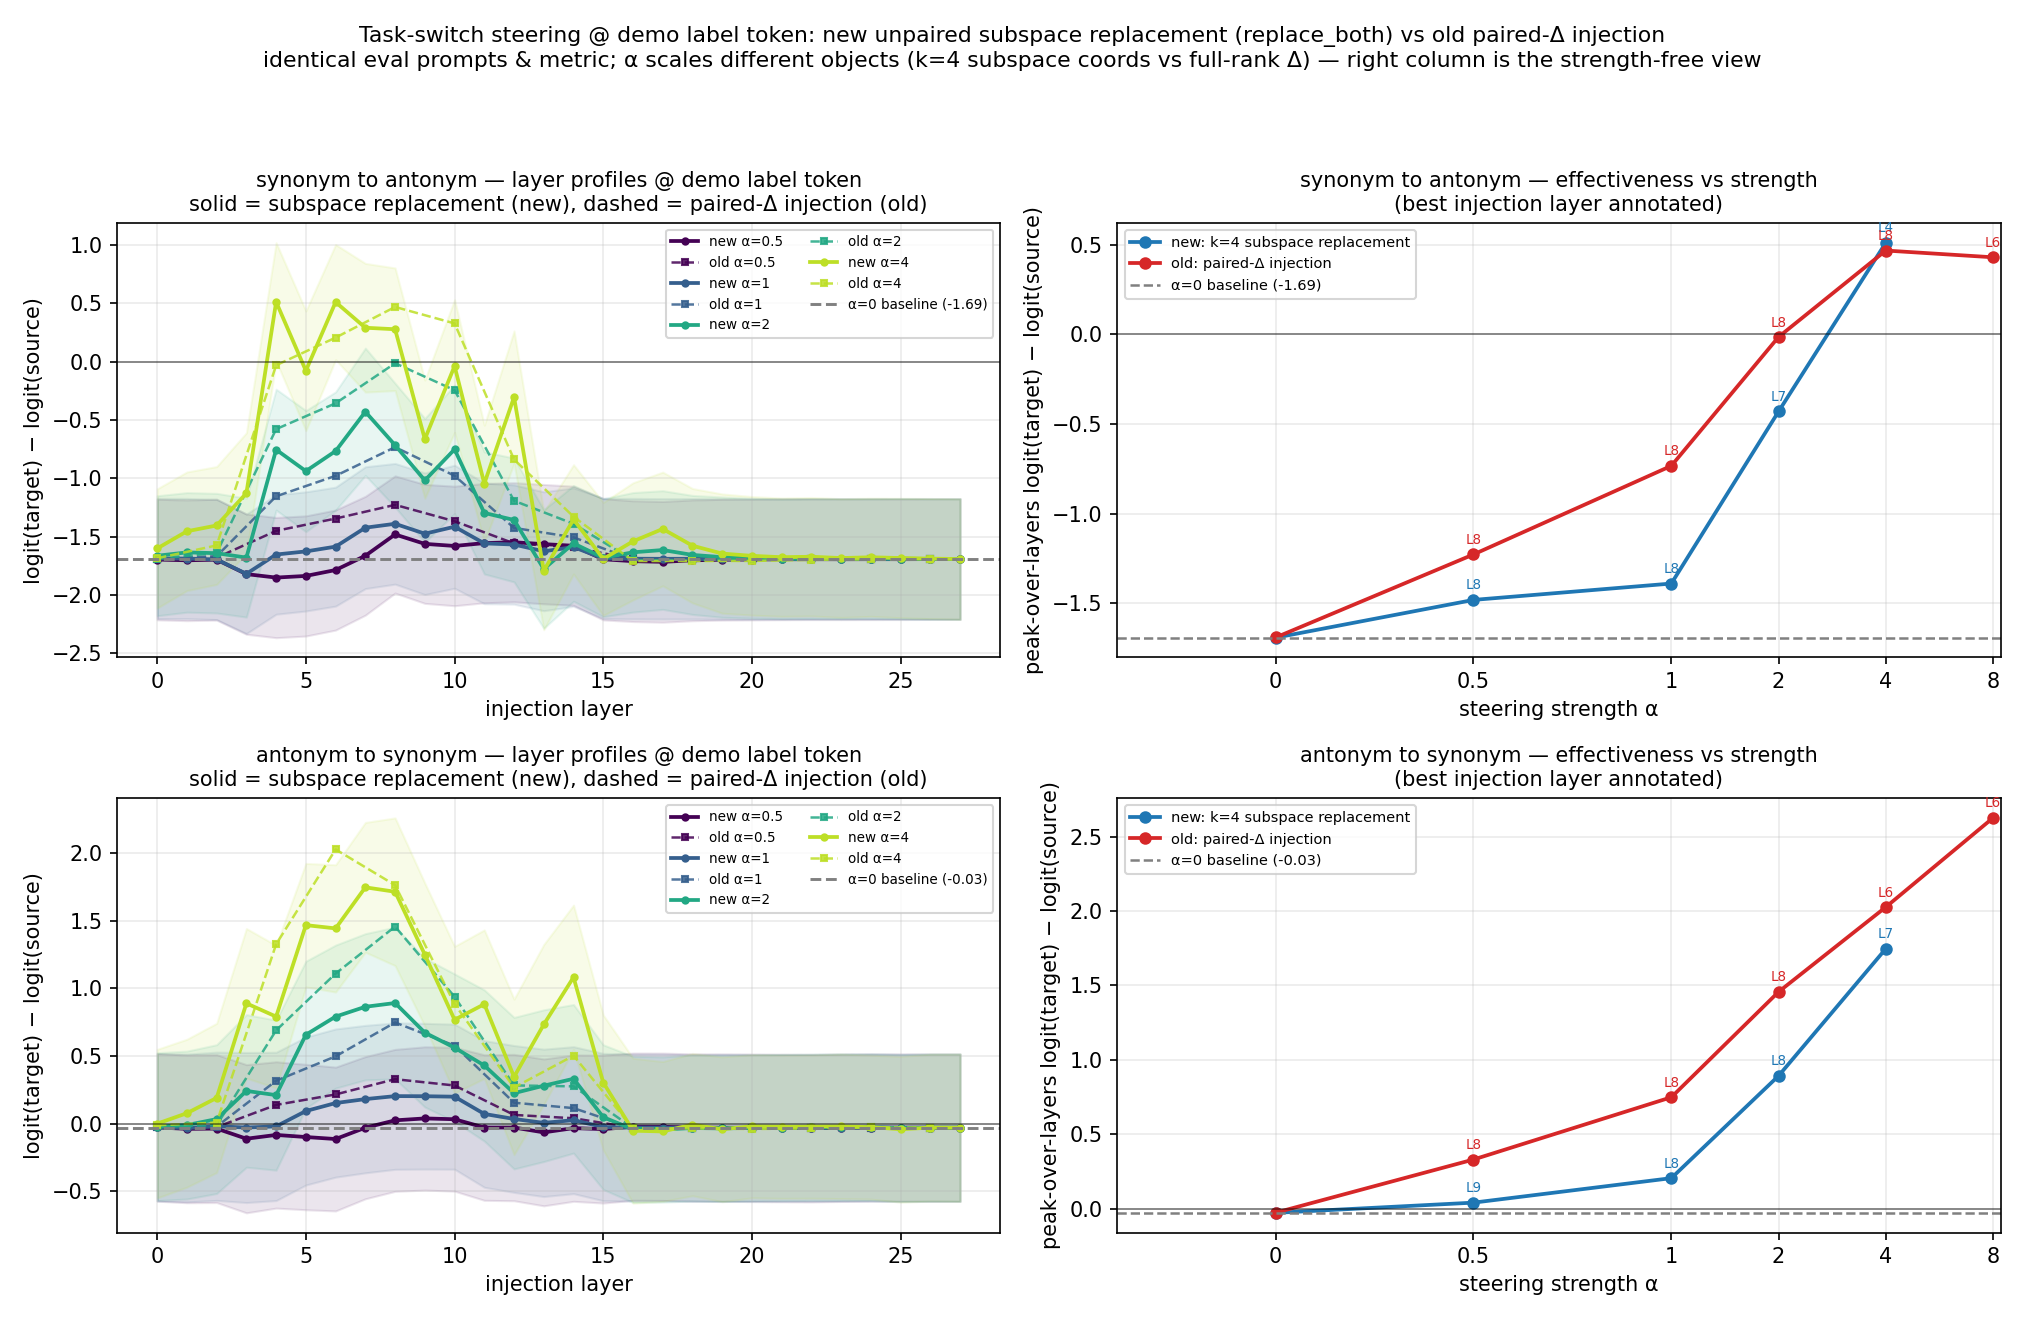
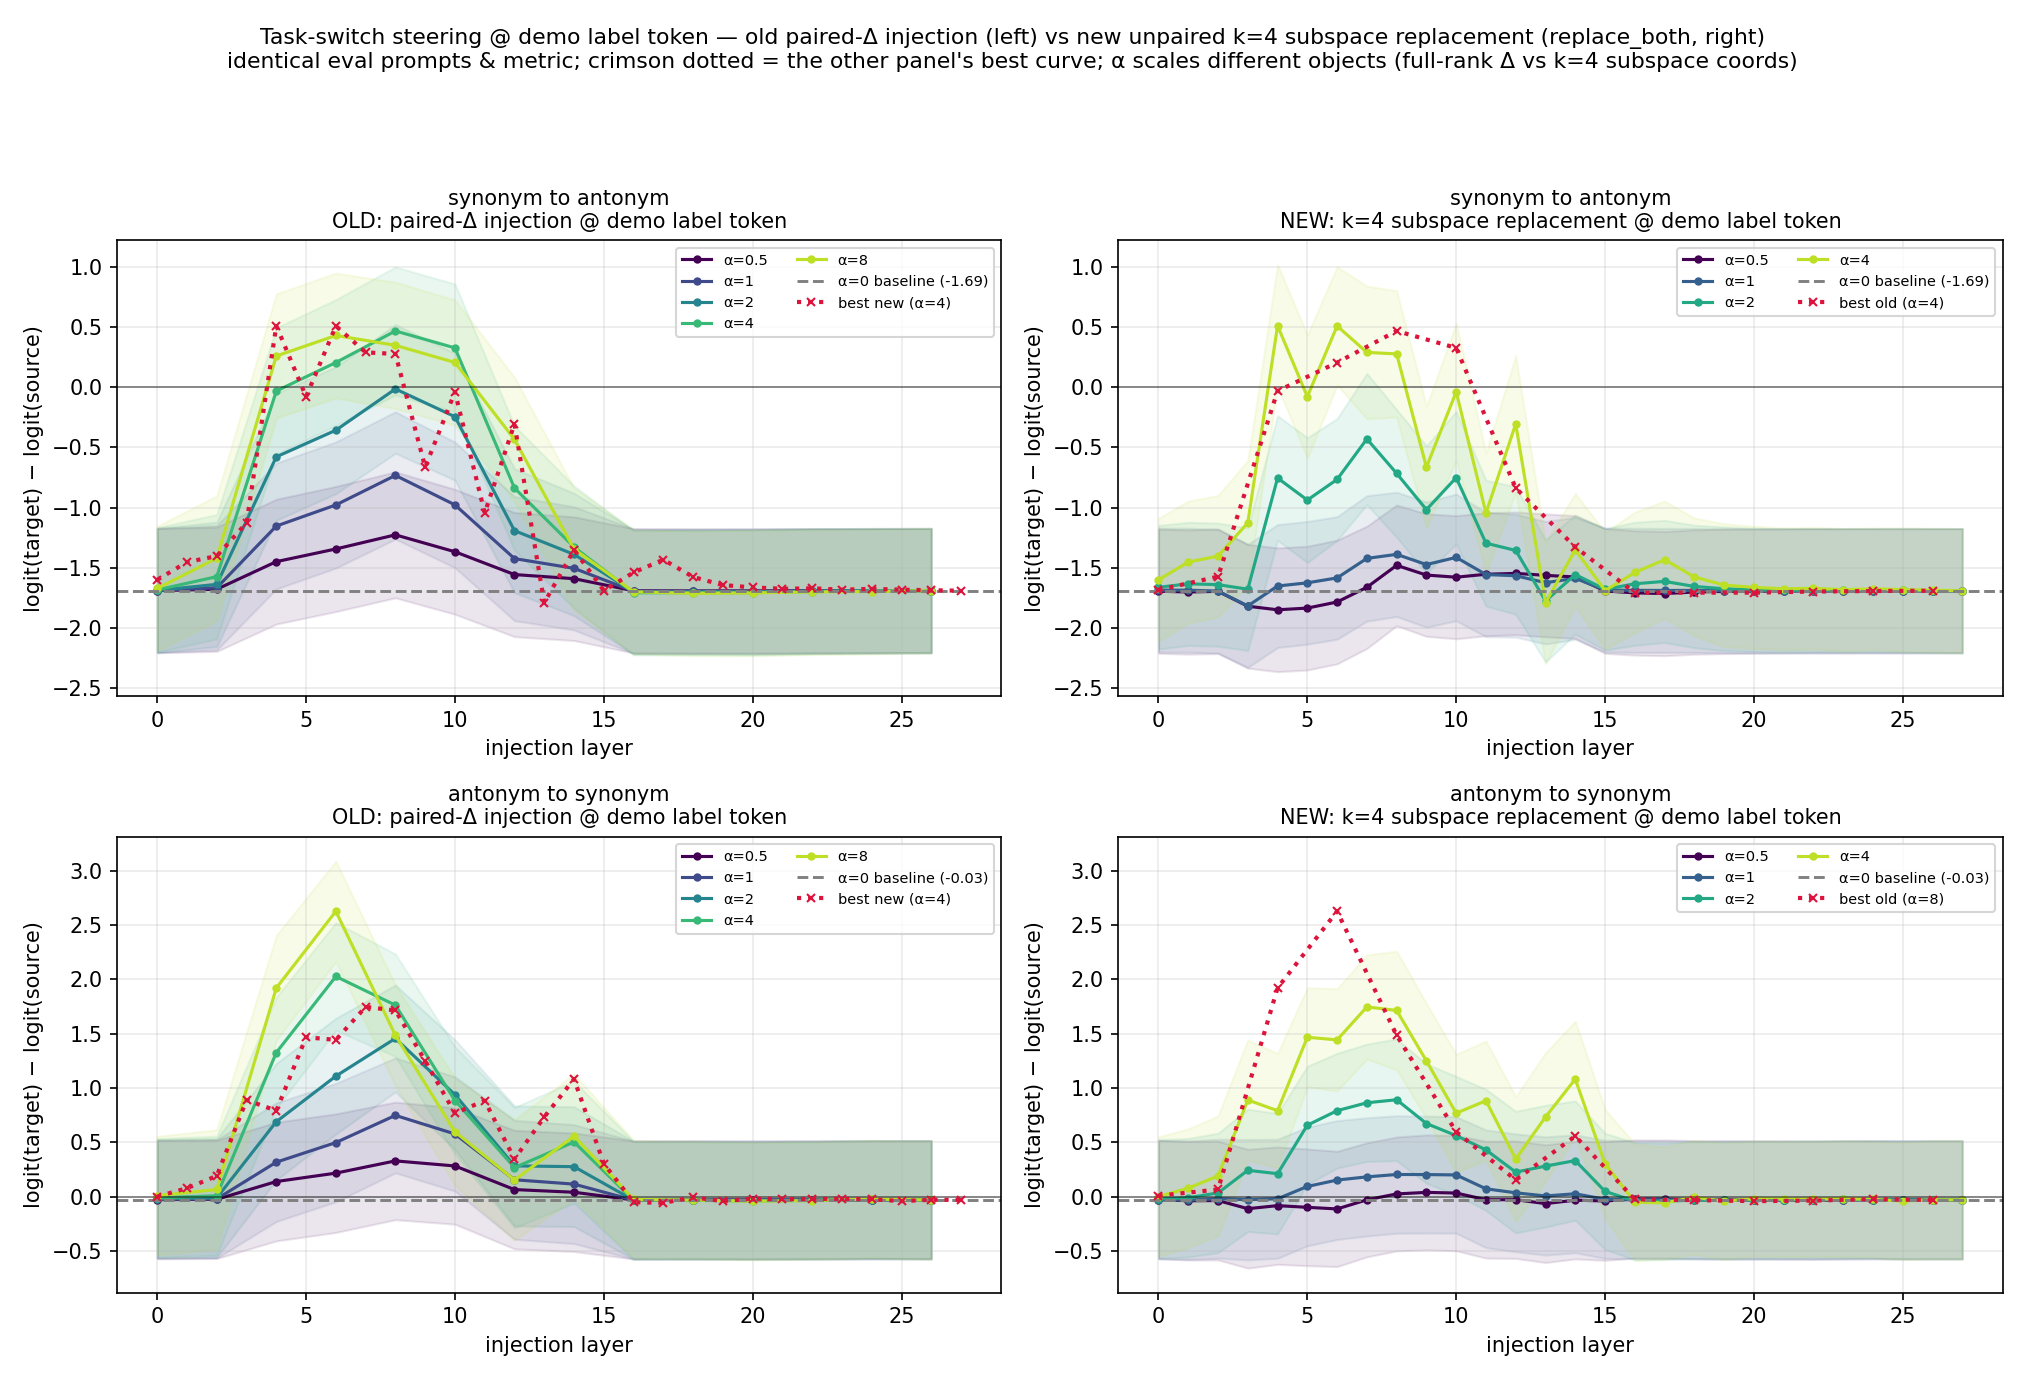
Part 12b: comparison figure reworked to 2x2 old-vs-new grid with cross-overlaid best curves

diff --git a/src/eval_scripts/plot_payload_switch_comparison.py b/src/eval_scripts/plot_payload_switch_comparison.py
@@ -1,16 +1,14 @@
 #!/usr/bin/env python
 """Comparison: payload-subspace REPLACEMENT steering vs the old paired-Delta method.
 
-Both studies use the SAME 100 eval prompts, the same demo-label-token site and the same
-readout (logit(target_gold) - logit(source_gold) at the final position; clean baselines agree
-to 0.001), so curves are directly overlayable. Left column: layer profiles at the shared
-alphas (solid = new subspace replacement, dashed = old paired-Delta injection). Right column:
-effectiveness-vs-strength (peak over layers vs alpha, including the old study's alpha=8).
-
-Caveat rendered in the suptitle: alpha scales different objects (old: a full-rank 4096-d
-difference-of-means Delta_label; new: the k=4 subspace coords of the 10-shot target mean),
-so per-alpha overlays are a convenience pairing, not an equivalence — the right column's
-best-over-alpha view is the strength-free comparison.
+2x2 grid, rows = directions (synonym->antonym, antonym->synonym), left column = OLD
+paired-Delta injection (oneshot_switch_logit, demo-label site), right column = NEW k=4
+subspace replacement. Each panel shows its own method's full alpha fan (layer profile of
+mean logit(target_gold) - logit(source_gold), ±ci95 band, dashed alpha=0 baseline), plus the
+OTHER method's best curve (highest peak over layers) dotted in crimson for direct reading.
+Y-limits shared within each row. Both studies use the SAME 100 eval prompts and metric
+(clean baselines agree to 0.001), so curves are directly overlayable; note alpha scales
+different objects (full-rank Delta vs k=4 subspace coords).
 """
 import argparse
 import json
@@ -40,6 +38,7 @@ def parse_args():
 
 
 def load_new(root, direction, arm):
+    """{alpha: (layers, mean, ci95)}, baseline — new subspace-replacement npz."""
     z = np.load(root / direction / f"{arm}_sweep.npz", allow_pickle=False)
     contrast = z["logit_tgt"] - z["logit_src"]  # (L, A, N)
     out = {}
@@ -52,6 +51,7 @@ def load_new(root, direction, arm):
 
 
 def load_old(root, direction, site="label"):
+    """{alpha: (layers, mean, ci95)}, baseline — old paired-Delta logit_diff.json."""
     data = json.loads((root / direction / "logit_diff.json").read_text())
     by_alpha = {}
     for c in data["conditions"].values():
@@ -66,63 +66,66 @@ def load_old(root, direction, site="label"):
     return out, float(data["baseline_alpha0"]["mean_logit_diff"])
 
 
+def best_alpha(series):
+    return max(series, key=lambda a: np.nanmax(series[a][1]))
+
+
+def plot_panel(ax, series, baseline, title, neighbour=None):
+    alphas = sorted(series)
+    cmap = plt.cm.viridis(np.linspace(0, 0.9, len(alphas)))
+    for col, alpha in zip(cmap, alphas):
+        x, y, ci = series[alpha]
+        ax.plot(x, y, "-o", color=col, ms=3, lw=1.5, label=f"α={alpha:g}")
+        ok = ~np.isnan(ci)
+        if ok.any():
+            ax.fill_between(np.asarray(x)[ok], (y - ci)[ok], (y + ci)[ok], color=col, alpha=0.10)
+    ax.axhline(baseline, ls="--", color="grey", lw=1.4, label=f"α=0 baseline ({baseline:.2f})")
+    ax.axhline(0, color="black", lw=0.8, alpha=0.5)
+    if neighbour is not None:
+        nx, ny, nlabel = neighbour
+        ax.plot(nx, ny, ls=":", color="crimson", lw=2.0, marker="x", ms=4, label=nlabel)
+    ax.set_xlabel("injection layer")
+    ax.set_ylabel("logit(target) − logit(source)")
+    ax.set_title(title, fontsize=10)
+    ax.grid(alpha=0.25)
+    ax.legend(fontsize=7, ncol=2)
+
+
 def main():
     args = parse_args()
     fig, axes = plt.subplots(len(args.directions), 2,
-                             figsize=(13.5, 4.4 * len(args.directions)), squeeze=False)
+                             figsize=(13.5, 4.6 * len(args.directions)), squeeze=False)
     for i, direction in enumerate(args.directions):
-        new_series, new_base = load_new(args.new_root, direction, args.arm)
         old_series, old_base = load_old(args.old_root, direction)
+        new_series, new_base = load_new(args.new_root, direction, args.arm)
 
-        # ---- left: layer profiles at the shared alphas ----
-        ax = axes[i][0]
-        shared = sorted(set(new_series) & set(old_series))
-        cmap = plt.cm.viridis(np.linspace(0, 0.9, len(shared)))
-        for col, alpha in zip(cmap, shared):
-            x, y, ci = new_series[alpha]
-            ax.plot(x, y, "-o", color=col, ms=3, lw=1.8, label=f"new α={alpha:g}")
-            ax.fill_between(x, y - ci, y + ci, color=col, alpha=0.10)
-            ox, oy, _ = old_series[alpha]
-            ax.plot(ox, oy, "--s", color=col, ms=3, lw=1.2, alpha=0.85, label=f"old α={alpha:g}")
-        ax.axhline(new_base, ls="--", color="grey", lw=1.4, label=f"α=0 baseline ({new_base:.2f})")
-        ax.axhline(0, color="black", lw=0.8, alpha=0.5)
-        ax.set_xlabel("injection layer")
-        ax.set_ylabel("logit(target) − logit(source)")
-        ax.set_title(f"{direction.replace('_', ' ')} — layer profiles @ demo label token\n"
-                     "solid = subspace replacement (new), dashed = paired-Δ injection (old)",
-                     fontsize=10)
-        ax.grid(alpha=0.25)
-        ax.legend(fontsize=6.5, ncol=2)
+        ba_old, ba_new = best_alpha(old_series), best_alpha(new_series)
+        best_old = (old_series[ba_old][0], old_series[ba_old][1], f"best old (α={ba_old:g})")
+        best_new = (new_series[ba_new][0], new_series[ba_new][1], f"best new (α={ba_new:g})")
 
-        # ---- right: peak over layers vs alpha (all alphas each method has) ----
-        ax = axes[i][1]
-        for series, base, col, lab in ((new_series, new_base, "tab:blue", "new: k=4 subspace replacement"),
-                                       (old_series, old_base, "tab:red", "old: paired-Δ injection")):
-            alphas = sorted(series)
-            peaks = [np.nanmax(series[a][1]) for a in alphas]
-            ax.plot([0] + alphas, [base] + peaks, "-o", color=col, lw=1.8, ms=5, label=lab)
-            for a, pk in zip(alphas, peaks):
-                bl = int(series[a][0][np.nanargmax(series[a][1])])
-                ax.annotate(f"L{bl}", (a, pk), textcoords="offset points", xytext=(0, 5),
-                            fontsize=6.5, color=col, ha="center")
-        ax.axhline(0, color="black", lw=0.8, alpha=0.5)
-        ax.axhline(new_base, ls="--", color="grey", lw=1.2, label=f"α=0 baseline ({new_base:.2f})")
-        ax.set_xlabel("steering strength α")
-        ax.set_ylabel("peak-over-layers logit(target) − logit(source)")
-        ax.set_title(f"{direction.replace('_', ' ')} — effectiveness vs strength\n"
-                     "(best injection layer annotated)", fontsize=10)
-        ax.set_xscale("symlog", linthresh=1)
-        ax.set_xticks([0, 0.5, 1, 2, 4, 8])
-        ax.set_xticklabels(["0", "0.5", "1", "2", "4", "8"])
-        ax.grid(alpha=0.25)
-        ax.legend(fontsize=7)
+        dname = direction.replace("_", " ")
+        plot_panel(axes[i][0], old_series, old_base,
+                   f"{dname}\nOLD: paired-Δ injection @ demo label token", neighbour=best_new)
+        plot_panel(axes[i][1], new_series, new_base,
+                   f"{dname}\nNEW: k=4 subspace replacement @ demo label token", neighbour=best_old)
 
-    fig.suptitle("Task-switch steering @ demo label token: new unpaired subspace replacement "
-                 f"({args.arm}) vs old paired-Δ injection\n"
-                 "identical eval prompts & metric; α scales different objects "
-                 "(k=4 subspace coords vs full-rank Δ) — right column is the strength-free view",
+        # shared y-limits across the row (both methods' bands + baselines + neighbours)
+        lo, hi = [], []
+        for series, base in ((old_series, old_base), (new_series, new_base)):
+            for x, y, ci in series.values():
+                ci0 = np.nan_to_num(ci, nan=0.0)
+                lo.append(np.nanmin(y - ci0)); hi.append(np.nanmax(y + ci0))
+            lo.append(base); hi.append(base)
+        pad = 0.06 * (max(hi) - min(lo))
+        for ax in axes[i]:
+            ax.set_ylim(min(lo) - pad, max(hi) + pad)
+
+    fig.suptitle("Task-switch steering @ demo label token — old paired-Δ injection (left) vs "
+                 f"new unpaired k=4 subspace replacement ({args.arm}, right)\n"
+                 "identical eval prompts & metric; crimson dotted = the other panel's best curve; "
+                 "α scales different objects (full-rank Δ vs k=4 subspace coords)",
                  fontsize=10.5)
-    fig.tight_layout(rect=(0, 0, 1, 0.94))
+    fig.tight_layout(rect=(0, 0, 1, 0.93))
     figdir = args.new_root / "figures"
     figdir.mkdir(parents=True, exist_ok=True)
     out = figdir / f"fig_payload_switch_vs_paired_{args.arm}.png"
